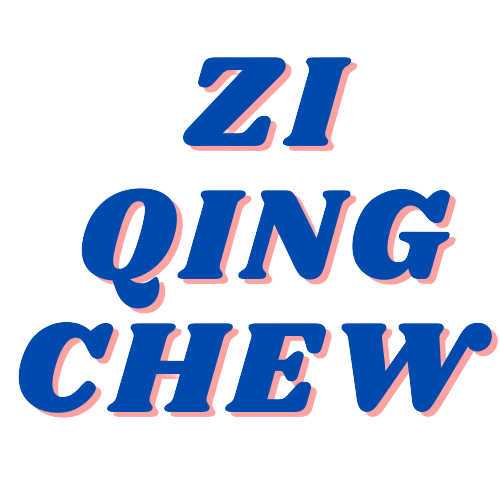
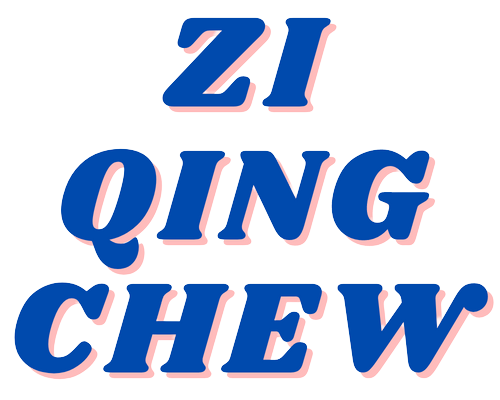
Edit info name and add bg image

diff --git a/portfolio/src/App.css b/portfolio/src/App.css
@@ -11,7 +11,7 @@ nav {
 
 .navbar-nav {
   text-align: center;
-  border: 1px solid red;
+  /* border: 1px solid red; */
 }
 
 .nav-link {
@@ -26,7 +26,7 @@ nav {
 }
 
 .info {
-  background-color: #B2A6FB;
+  /* background-color: #B2A6FB; */
   padding: 2em;
   padding-top: 0px;
   display: flex;
@@ -34,14 +34,36 @@ nav {
   align-items: center;
 }
 
-.info-left {
-  height: 30%;
-  width: auto;
+span {
+  display: block;
+}
+
+.info-name {
+  text-align: center;
+  font-family: 'Shrikhand', cursive;
+  color: #004aad;
+  text-shadow: 8px 8px rgba(255, 87, 87, 0.4);
+  font-size: 100px;
+  display: flex;
+  flex-direction: column;
+  justify-content: space-between;
+  align-items: center;
+}
+
+.info-name:nth-child(-n+2) {
+  display: none;
+}
+
+.slash {
+  display: none;
 }
 
 .info-right {
-  margin-top: -30px;
+  margin-top: 10px;
   text-align: justify;
+  display: flex;
+  flex-direction: column;
+  align-items: center;
 }
 
 .resume-btn {
@@ -53,7 +75,7 @@ nav {
   justify-content: center;
   align-items: center;
   gap: 3px;
-  border: 1px solid red;
+  /* border: 1px solid red; */
 }
 
 
@@ -98,7 +120,7 @@ nav {
   display: flex;
   align-items: center;
   justify-content: center;
-  border: 1px solid red;
+  /* border: 1px solid red; */
   gap: 1em;
 }
 
@@ -202,6 +224,7 @@ footer {
 
   .skills {
     padding: 3em 5em;
+    padding-top: 0px;
     gap: 2em;
   }
 
@@ -219,7 +242,7 @@ footer {
   }
 
   .projects-skills {
-    margin: 1em 0em;
+    /* margin: 1em 0em; */
     justify-content: flex-start;
   }
 
@@ -232,25 +255,60 @@ footer {
   }
 
   .info {
-    flex-direction: row;
+    flex-direction: column;
     justify-content: center;
     align-items: center;
+    padding: 0;
+
+    background-image: url('./images/info-bg.jpg');
+    background-position: center;
+  }
+
+  .info-name {
+    text-shadow: 5px 5px rgba(255, 87, 87, 1);
+    /* color: red; */
+    /* border: 1px solid red; */
+    font-size: 7em;
+    width: 70%;
+    padding: 0;
+    flex-direction: row;
+    justify-content: center;
+    gap: 5px;
+    position: relative;
+  }
+
+  .info-name:nth-child(-n+2) {
+    display: flex;
+  }
+
+  .slash {
+    display: inline;
+    color: red;
   }
 
   .info-left {
-    border: 1px solid red;
-    /* width: 70%;
-    height: auto; */
-    flex: 5 0 2;
+    width: 100%;
+    padding: 0;
+    display: flex;
+    flex-direction: column;
+    align-items: center;
   }
 
+  /* .info-left::before {
+    content: "";
+    background-image: url('./images/info-bg.jpg');
+    background-size: cover;
+    position: absolute;
+    opacity: 0.5;
+  } */
+
   .info-right {
-    width: 100px;
-    height: auto;
-    display: inline-flex;
-    border: 1px solid red;
+    padding: 0em 3em;
+    /* border: 1px solid red; */
     margin-top: 0px;
-    flex: 1 2 0;
+    /* flex-shrink: 1; */
     flex-wrap: wrap;
+    gap: 1.5em;
+    margin-bottom: 1em;
   }
 }

diff --git a/portfolio/src/components/Info.js b/portfolio/src/components/Info.js
@@ -8,7 +8,27 @@ export default function Info() {
             <div className='info'>
 
                 <div className='info-left'>
-                    <img src={name} alt="" className='img-fluid info-img' />
+                    <div className='info-name'>
+                        <span>ZI</span>
+                        <span className='slash'>/</span>
+                        <span>QING</span>
+                        <span className='slash'>/</span>
+                        <span>CHEW</span>
+                    </div>
+                    <div className='info-name'>
+                        <span>ZI</span>
+                        <span className='slash'>/</span>
+                        <span>QING</span>
+                        <span className='slash'>/</span>
+                        <span>CHEW</span>
+                    </div>
+                    <div className='info-name'>
+                        <span>ZI</span>
+                        <span className='slash'>/</span>
+                        <span>QING</span>
+                        <span className='slash'>/</span>
+                        <span>CHEW</span>
+                    </div>
                 </div>
 
                 <div className='info-right'>

diff --git a/portfolio/public/index.html b/portfolio/public/index.html
@@ -30,6 +30,11 @@
   <link
     href="https://fonts.googleapis.com/css2?family=Inter:wght@200;300;400;700&family=Montserrat:wght@400;500;600;700&family=Sono:wght@500;700&display=swap"
     rel="stylesheet">
+  <link rel="preconnect" href="https://fonts.googleapis.com">
+  <link rel="preconnect" href="https://fonts.gstatic.com" crossorigin>
+  <link
+    href="https://fonts.googleapis.com/css2?family=Inter:wght@200;300;400;700&family=Montserrat:wght@400;500;600;700&family=Shrikhand&family=Sono:wght@500;700&display=swap"
+    rel="stylesheet">
   <title>React App</title>
 </head>
 

diff --git a/portfolio/src/components/Projects.js b/portfolio/src/components/Projects.js
@@ -1,9 +1,10 @@
-import React from 'react'
+import React, { useEffect, useState, componentDidMount } from 'react'
 import { BsArrowUpRight } from 'react-icons/bs';
 
 export default function Projects() {
+
     return (
-        <div className='projects'>
+        <div className={`projects`} >
             <div className='project-item row align-items-center mb-5 mx-md-5 mt-md-5 mx-3 mx-md-0'>
                 <img src='https://source.unsplash.com/collection/12276674/480x480' className='col-md-6 img-fluid img-left up-when-hover' />
                 <div className='col-md-4'>

diff --git a/portfolio/src/App.js b/portfolio/src/App.js
@@ -1,5 +1,5 @@
 import './App.css';
-import React from 'react'
+import React, { useEffect } from 'react'
 import Nav from './components/Nav';
 import Info from './components/Info';
 import Projects from './components/Projects';
